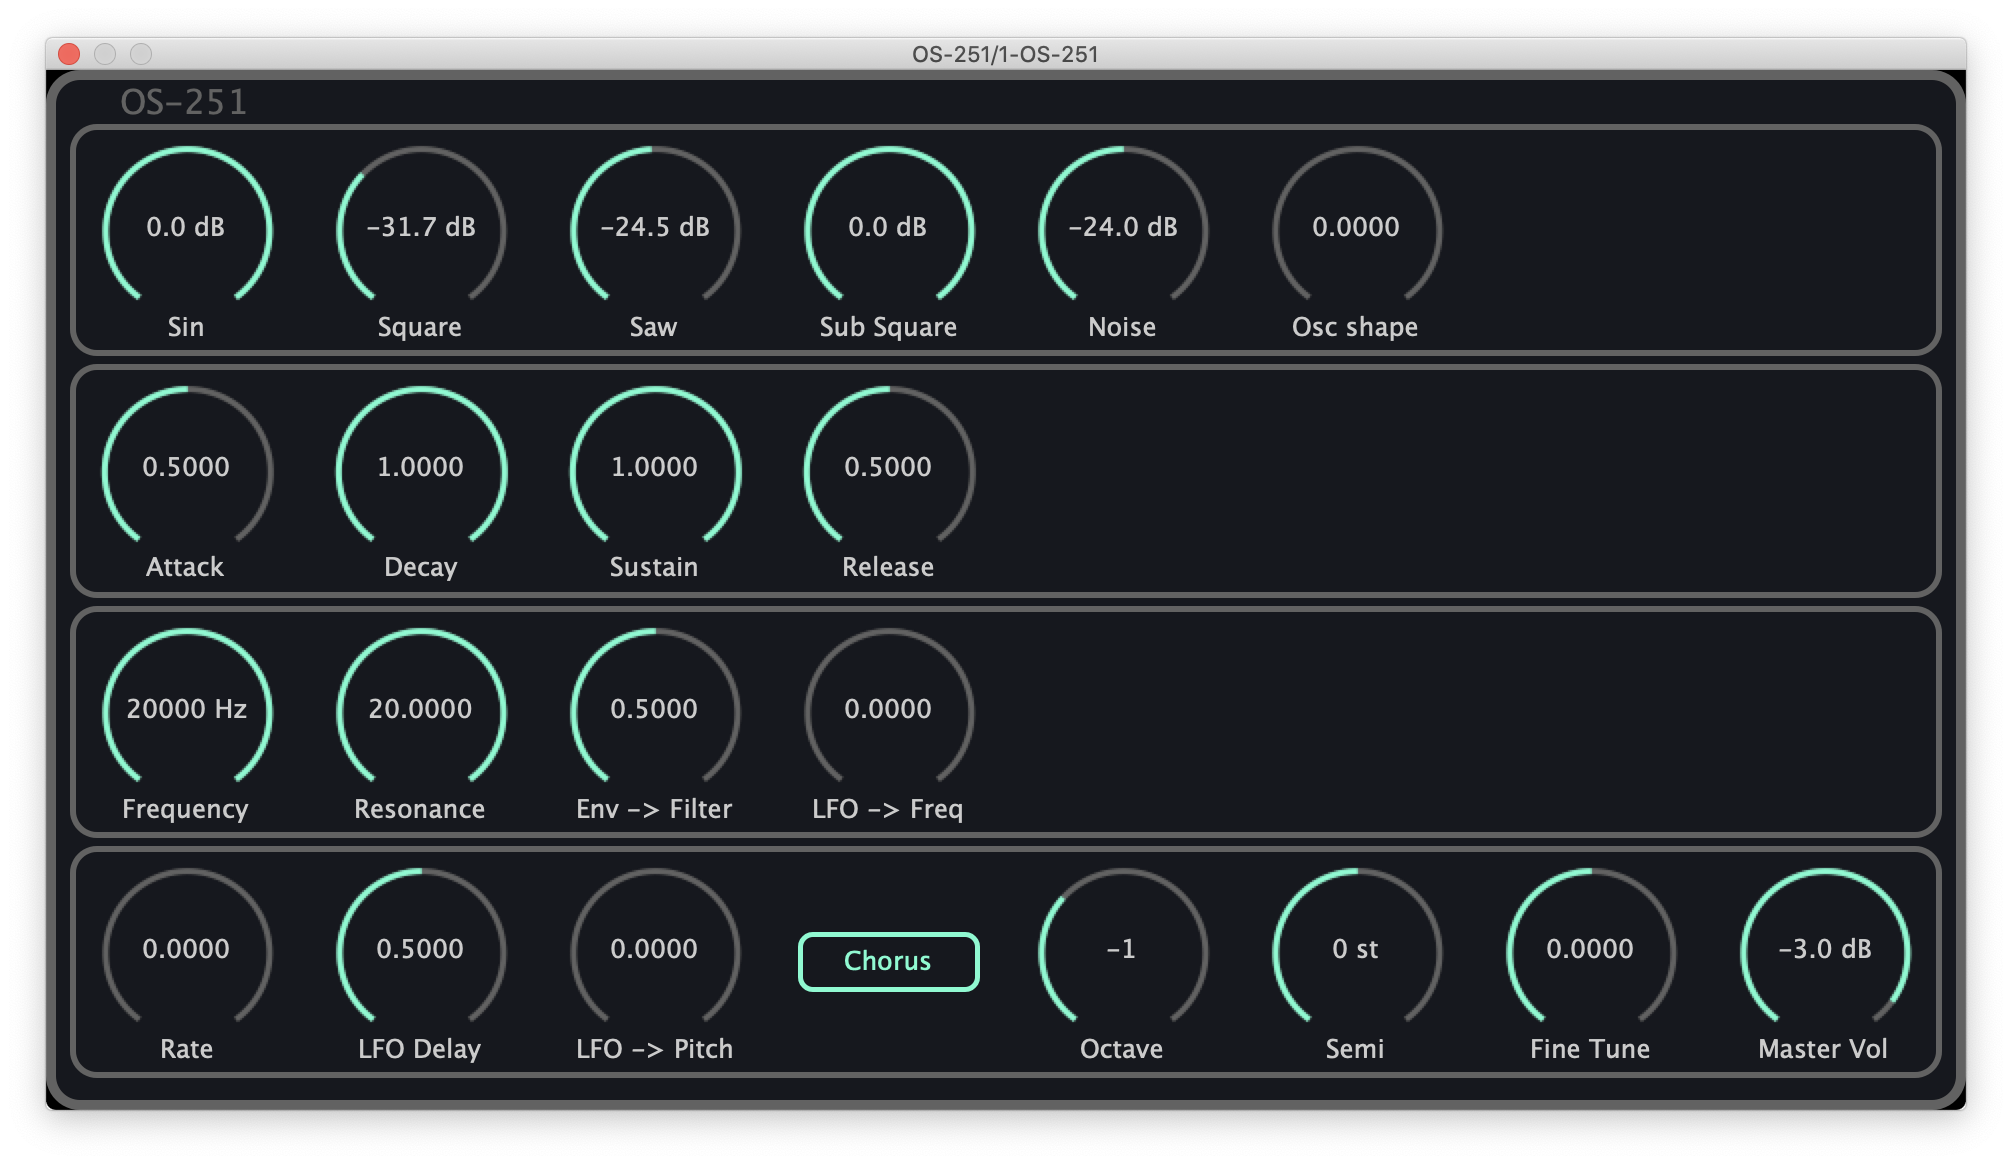
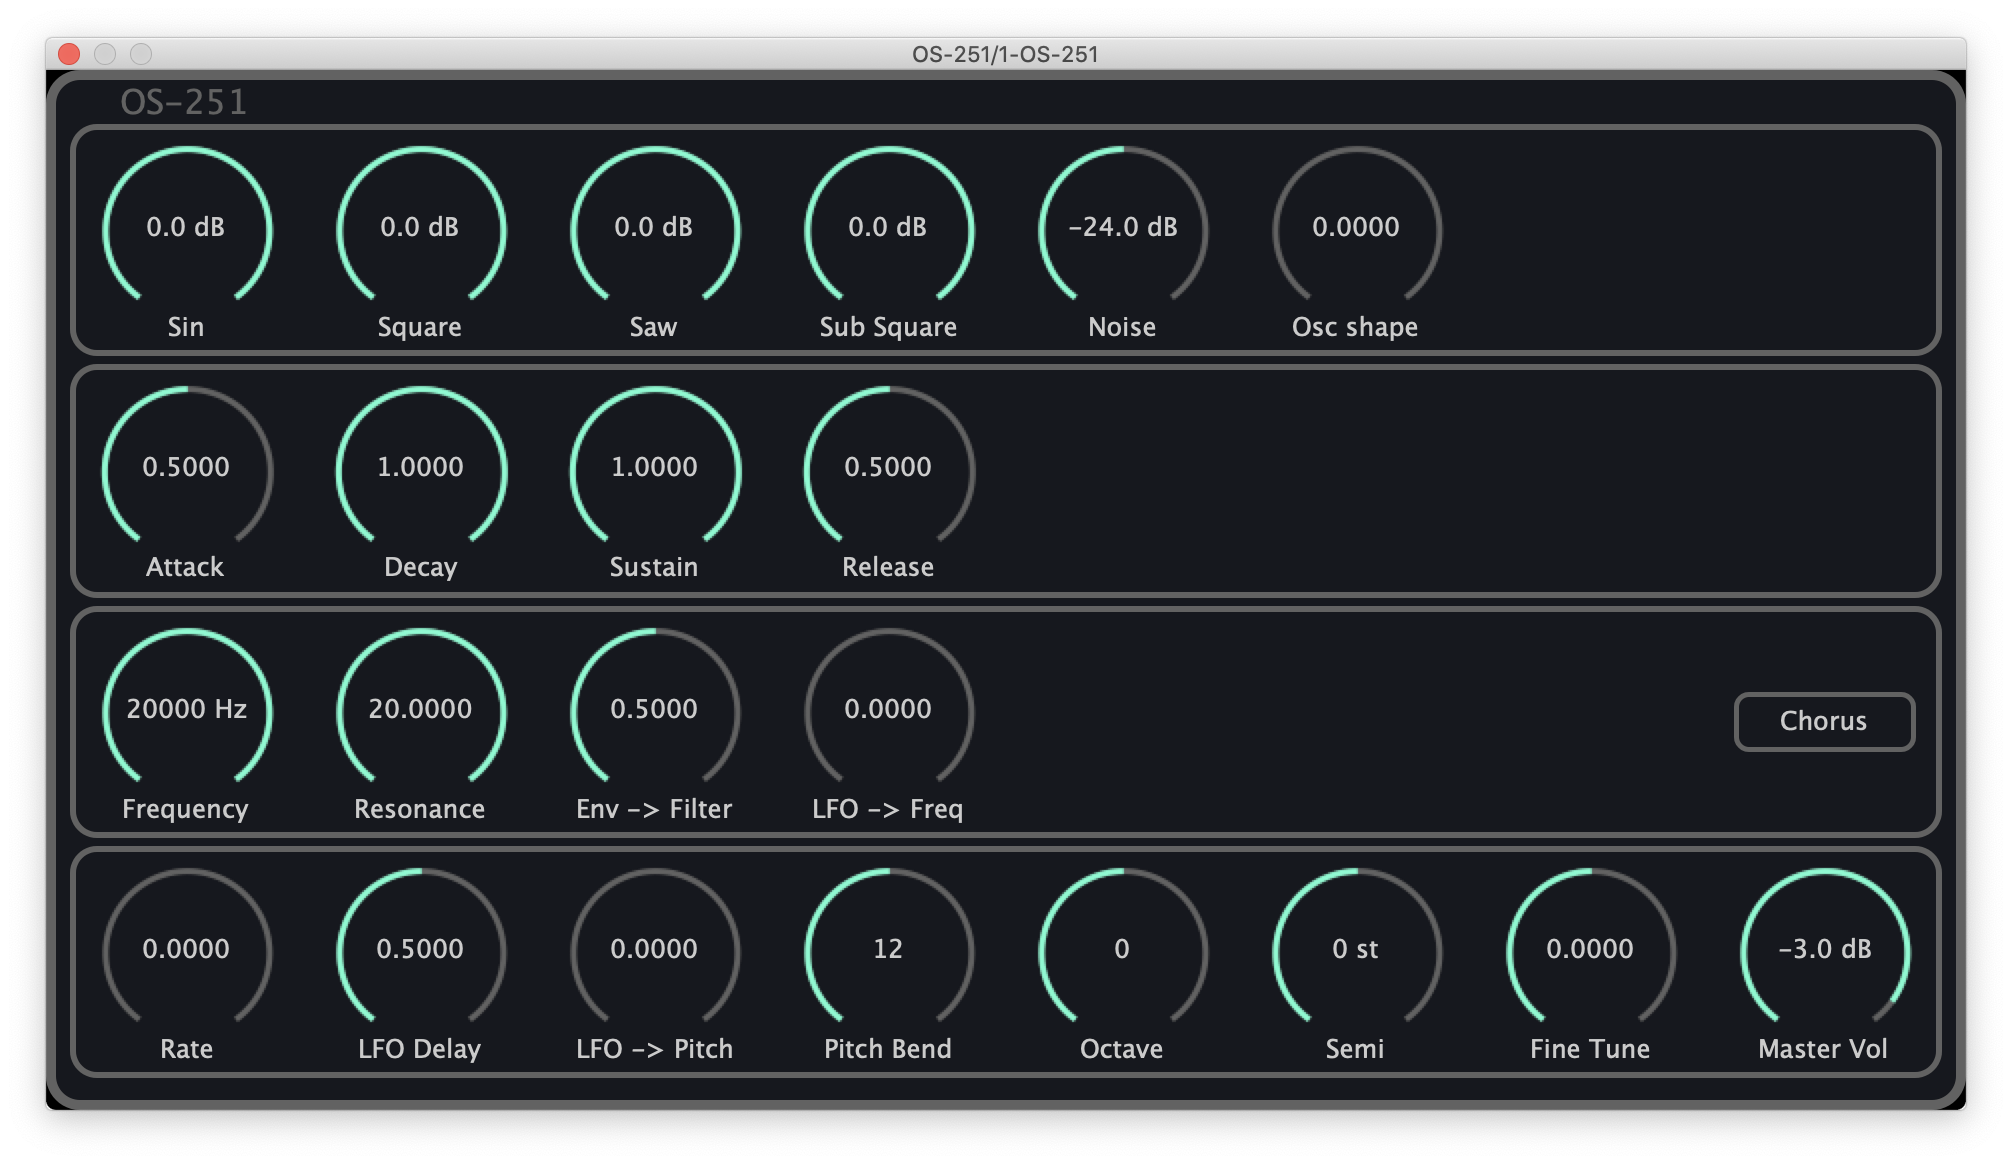
Add pitch bend width setting

diff --git a/src/jsui/src/App.js b/src/jsui/src/App.js
@@ -169,7 +169,12 @@ class App extends Component {
             <DummyModule />
             <DummyModule />
             <DummyModule />
-            <DummyModule />
+            <ButtonModule
+              paramId="chorusOn"
+              paramLabel="Chorus"
+              onToggled={this._onChorusToggled}
+              isOn={this.state.isChorusOn}
+            />
           </View>
           <View {...styles.param_row}>
             <SliderModule
@@ -184,11 +189,9 @@ class App extends Component {
               paramId="lfoPitch"
               paramLabel="LFO -> Pitch"
             />
-            <ButtonModule
-              paramId="chorusOn"
-              paramLabel="Chorus"
-              onToggled={this._onChorusToggled}
-              isOn={this.state.isChorusOn}
+            <SliderModule
+              paramId="pitchBendWidth"
+              paramLabel="Pitch Bend"
             />
             <SliderModule
               paramId="masterOctaveTune"

diff --git a/src/PluginProcessor.cpp b/src/PluginProcessor.cpp
@@ -30,7 +30,7 @@ Os251AudioProcessor::Os251AudioProcessor()
     // Map [0, 1.0] to ["0", "0.1"]
     constexpr int numDecimal = 4;
     auto valueToTextFunction = [] (float value) { return juce::String (value, numDecimal); };
-    auto valueToMinusOneToOneFunction = [] (float value) { return juce::String (onsen::DspUtil::valMinusOneToOne(value), numDecimal); };
+    auto valueToMinusOneToOneFunction = [] (float value) { return juce::String (onsen::DspUtil::valMinusOneToOne (value), numDecimal); };
 
     // Oscillator gain
     constexpr int numGainDecimal = 1;
@@ -53,6 +53,9 @@ Os251AudioProcessor::Os251AudioProcessor()
     auto valueToOnOff = [] (float value) { return value > 0.5 ? juce::String ("ON") : juce::String ("OFF"); };
 
     // Master octave tuning
+    auto pitchBendWidtValToStr = [] (float value) { return juce::String (
+                                                        onsen::DspUtil::mapFlnumToInt (
+                                                            value, 0.0, 1.0, 0, onsen::MasterParams::maxPitchBendWidth)); };
     auto masterOctaveTuningValToStr = [] (float value) { return juce::String (
                                                              onsen::DspUtil::mapFlnumToInt (value, 0.0, 1.0, -onsen::MasterParams::maxOctaveTuneVal, onsen::MasterParams::maxOctaveTuneVal)); };
     auto masterSemitoneTuningValToStr = [] (float value) { return juce::String (
@@ -177,6 +180,11 @@ Os251AudioProcessor::Os251AudioProcessor()
 
     // Master parameters
     onsen::MasterParams* const masterParams = synthParams.master();
+
+    // Pitch bend width
+    parameters.createAndAddParameter (std::make_unique<Parameter> ("pitchBendWidth", "Pitch Bend", "", nrange, 0.5, pitchBendWidtValToStr, nullptr, true));
+    masterParams->setPitchBendWidthPtr (parameters.getRawParameterValue (("pitchBendWidth")));
+    parameters.addParameterListener ("pitchBendWidth", this);
 
     // Master octave tuning
     parameters.createAndAddParameter (std::make_unique<Parameter> ("masterOctaveTune", "Octave", "", nrange, 0.5, masterOctaveTuningValToStr, nullptr, true));

diff --git a/src/params/MasterParams.h b/src/params/MasterParams.h
@@ -16,11 +16,21 @@ namespace onsen
 class MasterParams
 {
 public:
+    static constexpr int maxPitchBendWidth = 24; // unit is [semitone] or [st]
     static constexpr int dynamicRange = 48;
     static const int maxOctaveTuneVal = 3; // unit is [octave]
     static const int maxSemitoneTuneVal = 12; // unit is [semitone] or [st]
 
     //==============================================================================
+    flnum getPitchBendWidth() const
+    {
+        return DspUtil::mapFlnumToInt(pitchBendWidthVal, 0.0, 1.0, 0, maxPitchBendWidth);
+    }
+    void setPitchBendWidthPtr (const std::atomic<flnum>* _piatchBendWidth)
+    {
+        pitchBendWidth = _piatchBendWidth;
+        pitchBendWidthVal = *pitchBendWidth;
+    }
     flnum getMasterOctaveTune() const
     {
         return DspUtil::mapFlnumToInt (masterOctaveTuneVal, 0.0, 1.0, -maxOctaveTuneVal, maxOctaveTuneVal);
@@ -60,24 +70,34 @@ public:
     }
     void parameterChanged()
     {
+        pitchBendWidthVal = *pitchBendWidth;
         masterOctaveTuneVal = *masterOctaveTune;
         masterSemitoneTuneVal = *masterSemitoneTune;
         masterFineTuneVal = *masterFineTune;
         masterVolumeVal = *masterVolume;
     }
+    flnum getPitchBendWidthInFreqRatio () const
+    {
+        // pitchBendWidthVal is in [semitone].
+        // return it in frequency ratio.
+        return std::pow (2.0, getPitchBendWidth() / 12.0);
+    }
     flnum getFreqRatio()
     {
+        // Return frequency ratio of pitch tuning
         return std::pow (
             2.0,
             getMasterOctaveTune() + (getMasterSemitoneTune() + getMasterFineTune()) / 12.0);
     }
 
 private:
+    const std::atomic<flnum>* pitchBendWidth {};
     const std::atomic<flnum>* masterOctaveTune {};
     const std::atomic<flnum>* masterSemitoneTune {};
     const std::atomic<flnum>* masterFineTune {};
     const std::atomic<flnum>* masterVolume {};
 
+    flnum pitchBendWidthVal = 12; // Unit is [semitone]
     flnum masterOctaveTuneVal = 0.5;
     flnum masterSemitoneTuneVal = 0.5;
     flnum masterFineTuneVal = 0.5;

diff --git a/src/SynthVoice.cpp b/src/SynthVoice.cpp
@@ -99,7 +99,7 @@ void FancySynthVoice::setPitchBend (int pitchWheelValue)
     // 8192 -> no pitch bend
     if (pitchWheelValue > 8192)
     {
-        pitchBend = 1.0 + (pitchBendMax - 1.0) * (static_cast<flnum> (pitchWheelValue) - 8192.0) / 8191.0; // 16383 - 8192 = 8191
+        pitchBend = 1.0 + (p->getPitchBendWidthInFreqRatio() - 1.0) * (static_cast<flnum> (pitchWheelValue) - 8192.0) / 8191.0; // 16383 - 8192 = 8191
     }
     else if (pitchWheelValue == 8192)
     {
@@ -107,7 +107,7 @@ void FancySynthVoice::setPitchBend (int pitchWheelValue)
     }
     else
     {
-        pitchBend = 1.0 / (1.0 + (pitchBendMax - 1.0) * (8192.0 - static_cast<flnum> (pitchWheelValue)) / 8192.0);
+        pitchBend = 1.0 / (1.0 + (p->getPitchBendWidthInFreqRatio() - 1.0) * (8192.0 - static_cast<flnum> (pitchWheelValue)) / 8192.0);
     }
 }
 } // namespace onsen

diff --git a/src/SynthVoice.h b/src/SynthVoice.h
@@ -46,7 +46,6 @@ private:
     // We use angle in radian
     flnum currentAngle = 0.0, angleDelta = 0.0, level = 0.0;
     flnum pitchBend = 1.0;
-    flnum pitchBendMax = 2.0;
     Oscillator osc;
     Envelope env;
     Lfo* const lfo;

diff --git a/README.md b/README.md
@@ -18,7 +18,7 @@ This plugin is currently under development.
 - [ ] One knob HPF
 - [ ] LFO -> Shape parameter
 - [x] Master pitch setting (3 knobs)
-- [ ] Pitchbend width setting
+- [x] Pitchbend width setting
 - [ ] Presets
 - [ ] (Optional) Make LFO sync with the host's tempo.
   Maybe "Sync ON" button and "Phase" knob will be added.
